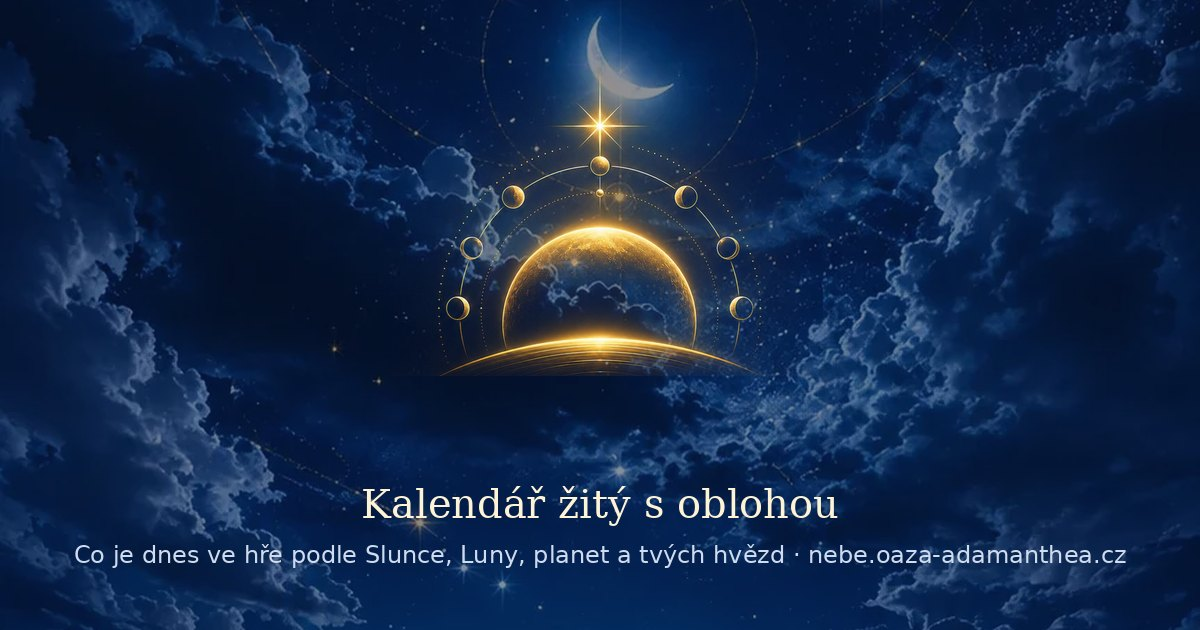
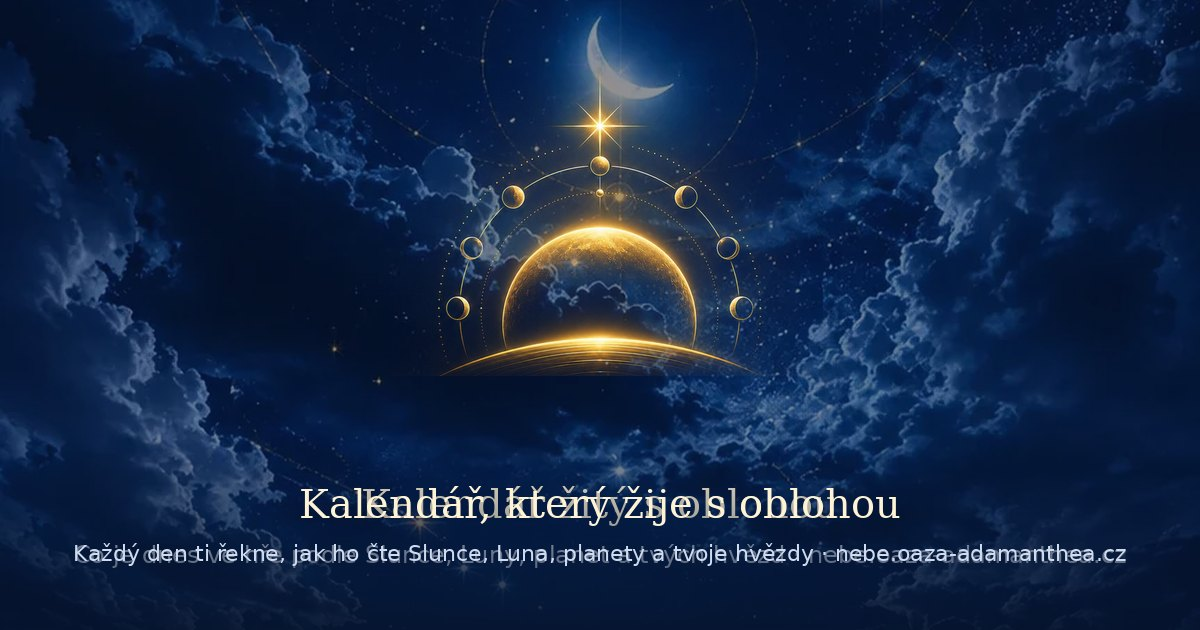
Text sdileni a nahledu prirozeneji: kalendar, ktery zije s oblohou; kazdy den ti rekne… + SW v385

Changed region(s): [[0.0, 0.754, 0.9558, 1.0], [0.9558, 0.9651, 1.0, 1.0]]

diff --git a/index.html b/index.html
@@ -6,7 +6,7 @@
 <title>Nebeský kompas — tvůj hvězdný kalendář</title>
   <meta property="og:type" content="website">
   <meta property="og:title" content="Nebeský kompas — kalendář žitý s oblohou">
-  <meta property="og:description" content="Co je dnes ve hře podle Slunce, Luny, planet a tvých hvězd. Barva dne, tvá mapa, tranzity, příroda a portály — vše v telefonu, data zůstávají u tebe.">
+  <meta property="og:description" content="Kalendář, který žije s oblohou. Každý den ti řekne, jak ho čte Slunce, Luna, planety a tvoje hvězdy, a co se hodí dnes udělat. Vše v telefonu, data zůstávají u tebe.">
   <meta property="og:url" content="https://nebe.oaza-adamanthea.cz/">
   <meta property="og:image" content="https://nebe.oaza-adamanthea.cz/share.jpg">
   <meta property="og:image:width" content="1200"><meta property="og:image:height" content="630">
@@ -34,7 +34,7 @@ var mt=document.querySelector('meta[name=theme-color]');if(mt)mt.setAttribute('c
 <link rel="preconnect" href="https://fonts.googleapis.com">
 <link rel="preconnect" href="https://fonts.gstatic.com" crossorigin>
 <link rel="stylesheet" href="https://fonts.googleapis.com/css2?family=Cormorant+Garamond:ital,wght@0,500;0,600;1,500&family=IBM+Plex+Sans:wght@400;500;600&family=IBM+Plex+Mono:wght@400;500&display=swap">
-<link rel="stylesheet" href="styles.css?v=384">
+<link rel="stylesheet" href="styles.css?v=385">
 </head>
 <body>
 <div id="splash" aria-hidden="true"><img class="sp-em" src="logo-emblem.webp?v=1" alt=""><span class="bname"><i class="l1"><b>NEBESKÝ</b></i><i class="l2"><b>KOMPAS</b></i></span><img class="sp-st" src="logo-stars.webp?v=1" alt=""><span class="claim sp-cl"><i>tvůj</i><i class="mid">hvězdný</i><i class="big">kalendář</i></span></div>
@@ -65,8 +65,8 @@ var mt=document.querySelector('meta[name=theme-color]');if(mt)mt.setAttribute('c
 <button type="button" class="backbtn" id="backBtn" aria-label="Zpět, odkud jsi přišel">‹ Zpět</button>
 <div class="upbar" id="upbar" role="status"><span><b>Nová verze je připravená</b>Obnov a máš ji hned.</span><button type="button" id="upGo">Obnovit</button><button type="button" class="upx" id="upX" aria-label="Zavřít">×</button></div>
 <script src="astronomy.browser.min.js"></script>
-<script src="kairos-core.js?v=384"></script>
-<script src="data.js?v=384"></script>
-<script src="app.js?v=384"></script>
+<script src="kairos-core.js?v=385"></script>
+<script src="data.js?v=385"></script>
+<script src="app.js?v=385"></script>
 </body>
 </html>

diff --git a/sw.js b/sw.js
@@ -1,6 +1,6 @@
 /* Kairos – service worker. Při každé změně index.html zvedni číslo verze. */
-const CACHE = 'kairos-v384';
-const SHELL = ['./', './index.html', './styles.css?v=384', './kairos-core.js?v=384', './data.js?v=384', './app.js?v=384', './astronomy.browser.min.js', './manifest.webmanifest', './logo.png', './logo-emblem.webp?v=1', './cyklus-dne.webp?v=1', './cat-vse.webp?v=2', './cat-portal.webp?v=2', './cat-osobni.webp?v=2', './cat-priroda.webp?v=2', './cat-zatmeni.webp?v=2', './cat-luna.webp?v=2', './cat-planety.webp?v=2', './cat-hvezdy.webp?v=2', './cat-roje.webp?v=2', './cat-slunce.webp?v=2', './cat-komety.webp?v=2', './tile-mapa.webp?v=11', './tile-prochazis.webp?v=11', './tile-vztahy.webp?v=11', './tile-horoskop.webp?v=11', './tile-cisla.webp?v=11', './tile-cakra.webp?v=11', './tile-navraty.webp?v=11', './tile-hvezdy.webp?v=11', './tile-maya.webp?v=11', './tile-cina.webp?v=11', './logo-stars.webp?v=1', './moon-tex.png?v=1', './icon-192.png', './icon-512.png', './icon-maskable-512.png', './sky-day.webp?v=7', './sky-night.webp?v=4', './sky-night-hd2.webp?v=1', './sky-day-hd2.webp?v=1'];
+const CACHE = 'kairos-v385';
+const SHELL = ['./', './index.html', './styles.css?v=385', './kairos-core.js?v=385', './data.js?v=385', './app.js?v=385', './astronomy.browser.min.js', './manifest.webmanifest', './logo.png', './logo-emblem.webp?v=1', './cyklus-dne.webp?v=1', './cat-vse.webp?v=2', './cat-portal.webp?v=2', './cat-osobni.webp?v=2', './cat-priroda.webp?v=2', './cat-zatmeni.webp?v=2', './cat-luna.webp?v=2', './cat-planety.webp?v=2', './cat-hvezdy.webp?v=2', './cat-roje.webp?v=2', './cat-slunce.webp?v=2', './cat-komety.webp?v=2', './tile-mapa.webp?v=11', './tile-prochazis.webp?v=11', './tile-vztahy.webp?v=11', './tile-horoskop.webp?v=11', './tile-cisla.webp?v=11', './tile-cakra.webp?v=11', './tile-navraty.webp?v=11', './tile-hvezdy.webp?v=11', './tile-maya.webp?v=11', './tile-cina.webp?v=11', './logo-stars.webp?v=1', './moon-tex.png?v=1', './icon-192.png', './icon-512.png', './icon-maskable-512.png', './sky-day.webp?v=7', './sky-night.webp?v=4', './sky-night-hd2.webp?v=1', './sky-day-hd2.webp?v=1'];
 
 self.addEventListener('install', (e) => {
   e.waitUntil(caches.open(CACHE).then((c) => c.addAll(SHELL.map((u) => new Request(u, { cache: 'reload' })))).then(() => self.skipWaiting()));

diff --git a/app.js b/app.js
@@ -1,6 +1,6 @@
 (function () {
   'use strict';
-  const VERSION = 'v384';
+  const VERSION = 'v385';
   const A = Astronomy;
   const K = createKairosEngine(A);
   const TX = createKairosTexts(K);
@@ -1841,7 +1841,7 @@
     setCountry(el) { settings.country = el.value; persistSettings(); for (const k in _holCache) delete _holCache[k]; S.dayCache = {}; renderSettings(); },
     async shareApp() {
       const url = 'https://nebe.oaza-adamanthea.cz/';
-      const text = 'Nebeský kompas — kalendář žitý s oblohou. Co je dnes ve hře podle Slunce, Luny, planet a tvých hvězd.';
+      const text = 'Nebeský kompas — kalendář, který žije s oblohou. Každý den ti řekne, jak ho čte Slunce, Luna, planety a tvoje hvězdy, a co se hodí dnes udělat.';
       if (navigator.share) {
         // jen text a odkaz — obrázek si aplikace vezmou samy z náhledu odkazu; při posílání souboru řada z nich odkaz zahodí
         try { await navigator.share({ title: 'Nebeský kompas', text, url }); return; }
